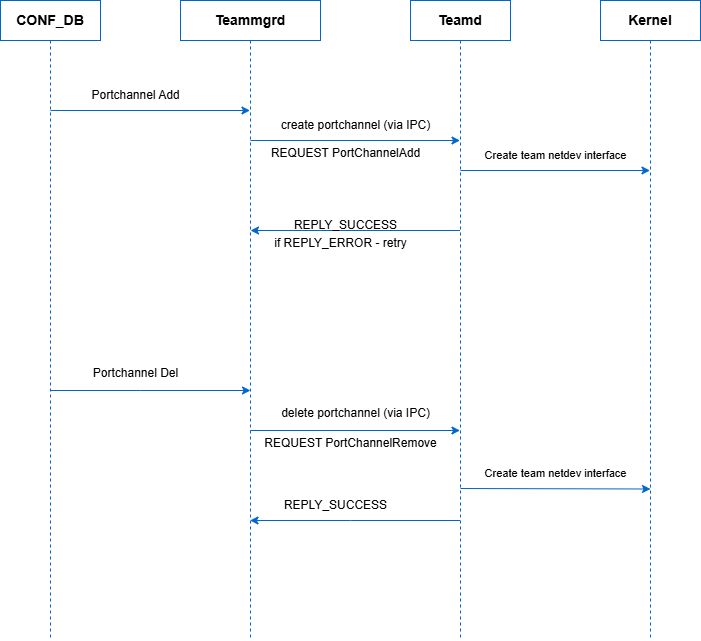
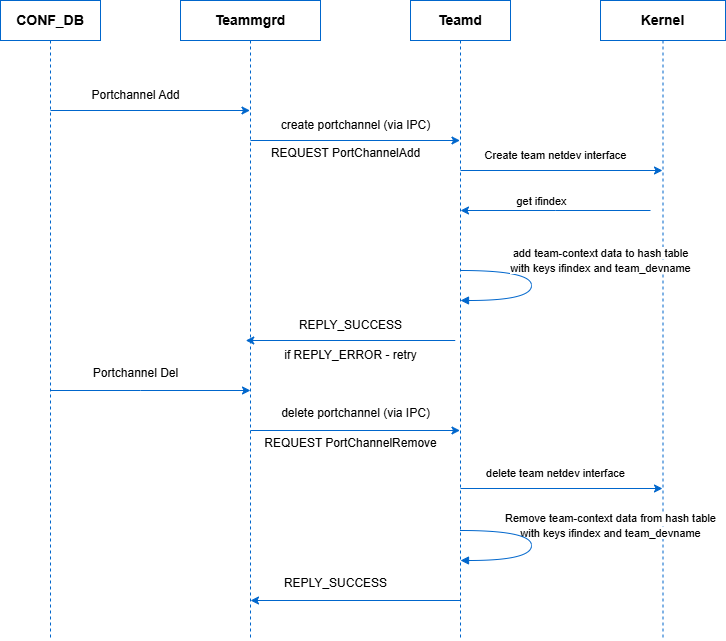
Unified Teamd HLD for SONiC

diff --git a/doc/UnifiedTeamD/Unified_TeamD_HLD.md b/doc/UnifiedTeamD/Unified_TeamD_HLD.md
@@ -5,16 +5,16 @@
 # Revision
 | Rev |     Date    |         Author               |          Change Description      |
 |:---:|:-----------:|:----------------------------:|:--------------------------------:|
-| 1.0 | 09/05/2025  | Praveen HM, Ashutosh Agrawal | Initial Version                  |
-
+| 1.0 | 21/07/2025  | Praveen HM, Venkata Gouri Rajesh Etla, Ashutosh Agrawal                  | Initial Version                  |
+                                                            
 ## Table of Contents
 
 - [Unified Teamd Process for PortChannels](#unified-teamd-process-for-portchannels)
 - [High Level Design Document](#high-level-design-document)
 - [Revision](#revision)
-  - [Table of Contents](#table-of-contents)
-  - [Scope](#scope)
-  - [Definitions](#definitions)
+- [Table of Contents](#table-of-contents)
+- [Scope](#scope)
+- [Definitions](#definitions)
 - [Overview](#overview)
   - [Teamd](#teamd)
   - [Current Design](#current-design)
@@ -22,11 +22,15 @@
   - [Requirements](#requirements)
 - [Detailed Design](#detailed-design)
   - [Architecture Overview](#architecture-overview)
+  - [Warmboot](#warmboot)
   - [TeamD](#teamd-1)
   - [Libteam](#libteam)
+  - [FD Optimization and Wheel Timers](#fd-optimization-and-wheel-timers)
+    - [Overview: What Is a Wheel Timer?](#overview-what-is-a-wheel-timer)
+    - [Key Components of a Wheel Timer](#key-components-of-a-wheel-timer)
   - [Teamd Config Manager](#teamd-config-manager)
   - [Teamsyncd](#teamsyncd)
-  - [tlm\_teamd](#tlm_teamd)
+  - [tlm_teamd](#tlm_teamd)
   - [Interaction Flow](#interaction-flow)
     - [Portchannel Add/Del Configuration Flow](#portchannel-adddel-configuration-flow)
     - [Portchannel Member Add/Del Configuration Flow](#portchannel-member-adddel-configuration-flow)
@@ -37,6 +41,7 @@
       - [Config DB](#config-db)
       - [CLI](#cli)
       - [YANG](#yang)
+- [Performance numbers](#performance-numbers)
 - [Testing](#testing)
   - [Test Cases](#test-cases)
 - [References](#references)
@@ -50,7 +55,6 @@ This document describes the high-level design for optimizing the teamd implement
 - **TEAMD**: Team Daemon, a user-space application part of the Libteam project that manages network interface bonding.
 - **LAG**: Link Aggregation Group, a method of combining multiple physical network connections into a single logical link.
 - **LACP**: Link Aggregation Control Protocol, a protocol that controls the bundling of several physical ports to form a single logical channel.
-- **AVL**: Adelson-Velsky and Landis, a self-balancing binary search tree used for efficient data management.
 - **IPC**: Inter-Process Communication, methods for the exchange of data between multiple threads in one or more processes.
 
 # Overview
@@ -124,26 +128,30 @@ The new architecture implements a single teamd process that manages multiple por
 The redesigned architecture focuses on improving resource efficiency and scalability through the following mechanisms:
 
 - A single teamd process will manage all PortChannels, replacing the need for multiple per-instance processes.
-- An AVL tree data structure will be used internally to enable fast and efficient lookups, insertions, and deletions.
+- A Hash table will be used internally to enable fast and efficient lookups, insertions, and deletions.
 - Shared resources such as netlink sockets will be reused across all managed PortChannels to reduce system overhead.
 - Configuration updates from teammgrd will be handled via IPC messages.
-- A new CLI command will be added to notify teamd to operate in multi-process (legacy) mode 
+- A new CLI command will be added to notify teamd to operate in multi-process (legacy) mode
+- The file descriptor usage will be optimized by implementing wheel timers and using global pipe instead of per portchannel pipe.
+
+## Warmboot
+The existing warmboot behavior continues to be supported, and no explicit changes are required to enable warmboot with this enhancement.
 
 ## TeamD
-teamd shall support both unified and multi-process (legacy) operation modes. Upon startup, teammgrd determines the current mode of operation. If the mode is unified, teammgrd launches a single teamd instance using the following command:
+teamd shall support both unified and multi-process (legacy) operation modes. Upon startup, teammgrd determines the current mode of operation. If the mode is not set, teammgrd launches a single teamd instance using the following command:
 ```
 /usr/bin/teamd -t teamd-unified -L /var/warmboot/teamd/ -g -d
 ```
 In multi-process mode (the legacy behavior), teammgrd will spawn a separate teamd process for each PortChannel as they are created.
 
-Refer section <PHM> for more details on how to set the mode.
+Refer section [teamd operating mode](#teamd-operating-mode) for more details on how to set the mode.
 
 During initialization, 
 - The -t option and the argument to it is used to differentiate between single-process and multi-process modes of operation.
 - When -t option with value "teamd-unified" is specified, the process runs in single-process mode, managing multiple PortChannels within a single teamd instance.
 - When -t option with value "portdevname" is provided (e.g., -t PortChannel01), it runs in multi-process mode, where each PortChannel is managed by its own separate teamd process.
 
-- A new global_context structure will be defined to store global configuration and state relevant to the entire teamd process. It maintains an AVL tree data structure for efficiently managing and accessing multiple team devices (portchannels).
+- A new global_context structure will be defined to store global configuration and state relevant to the entire teamd process. It maintains a Hash table for efficiently managing and accessing multiple team devices (portchannels).
 - Common netlink sockets are created to handle all interface events from kernel.
 - A single event loop will be defined to handle kernel events for all portchannels.
 - A new unix socket is created for IPC communication with teammgrd and tlm_teamd. 
@@ -154,7 +162,7 @@ Once initialized, teamd can dynamically manage port channels based on configurat
 
 When the system starts, teamd operates in the new design where it runs in single-process mode and manages all PortChannels through IPC. To downgrade to the legacy design, the mode must be explicitly set to "multi-process" and the Docker container must be restarted. Similarly, to upgrade back to the new design, the "multi-process" mode configuration should be removed, followed by a Docker restart. Therefore, the mode setting must be correctly configured before restarting the container to ensure the system comes up in the desired operation mode.
 
-Refer section <PHM> for more details on how to set the mode.
+Refer section [teamd operating mode](#teamd-operating-mode) for more details on how to set the mode.
 
 ## Libteam
 
@@ -168,6 +176,33 @@ A new structure "team_netlink" will be defined in the libteam layer to hold all 
 
 A shared set of netlink sockets will be created once and used for communication with the kernel. These sockets will handle team-related control messages and events for all team (portchannel) devices, by maintaining a map between ifindex to corresponding portchannels.
 
+**Netlink buffer size**
+
+As multiple LAGs are handled by single teamd daemon in case of unified-mode, the netlink buffer size is increased from current 960kB to 3MB to handle the increased number of netlink messages.
+
+## FD Optimization and Wheel Timers 
+
+Currently each LAG uses 1 timerfd and 2 fds for pipe, each member port uses 3 timer fds and 1 fd for socket used for packet processing. The pipe is used for internal communication while doing LACP port aggregator selection and for active port selection with active-backup runner. With single unified teamd process, as there will be multiple LAGs in single teamd process this can lead to hitting the FD limit of 1024 for the process when scaled. To address this, following changes are made:
+
+- Instead of one pipe for each LAG, a single pipe will be used in global context and used across all LAGs 
+- 2 timer fds will be created, one for timers with granularity of seconds and another for 100ms granularity. These timers will then be used to add support for existing timers in teamd using hashed wheel timer. 
+
+### Overview: What Is a Wheel Timer? 
+
+A wheel timer organizes timers in a circular buffer structure where: 
+
+- Each slot in the "wheel" represents a time interval (e.g., 100ms, 1sec). 
+- Timers are inserted into future slots based on their timeout. 
+- The wheel rotates like a clock — advancing by one slot at fixed time intervals. 
+- When the wheel lands on a slot, it fires or checks all timers in that slot. 
+
+### Key Components of a Wheel Timer
+- Tick interval – Smallest unit of time. 100ms and 1sec interval timers will be used.  
+- Number of slots – Size of the wheel, for 100ms timer 20 slots will be used and for 1sec timer 120 slots will be used. 
+- Current slot index – Rotates at each tick (like a second hand). 
+- Timer entries – Each slot holds a list of timer callbacks to fire. The existing timer callbacks will be used to handle the timer expiry. 
+
+<div align="center"> <img src=images/wheel_timers.jpg width=600 /> </div>
 
 ### Teamd Config Manager
 
@@ -192,7 +227,7 @@ Alternatively, now tlm_teamd communicates with teamd over a Unix socket to retri
 ### Portchannel Add/Del Configuration Flow
 
 When a new PortChannel is configured in the system, an entry is created in the CONFIG_DB, which teammgrd monitors. teammgrd sends PortChannelAdd IPC meesage to the teamd process.
-Upon receiving this request, teamd communicates with the kernel to create the appropriate team network device interface. This involves several steps: first, teamd requests the kernel to create the team netdev interface, then it retrieves the ifindex from the kernel. Once the interface is created, teamd adds team-context data to the AVL tree with the retrieved ifindex and team device name as keys. After successful completion of these operations, teamd sends a REPLY_SUCCESS message back to teammgrd. If an error occurs during this process, the system is designed to retry the operation.
+Upon receiving this request, teamd communicates with the kernel to create the appropriate team network device interface. This involves several steps: first, teamd requests the kernel to create the team netdev interface, then it retrieves the ifindex from the kernel. Once the interface is created, teamd adds team-context data to the hash table with the retrieved ifindex and team device name as keys. After successful completion of these operations, teamd sends a REPLY_SUCCESS message back to teammgrd. If an error occurs during this process, the system is designed to retry the operation.
 
 **IPC message for Portchannel addition**
 
@@ -203,8 +238,10 @@ Upon receiving this request, teamd communicates with the kernel to create the ap
 Sample config_json:
 {"device":"PortChannel3","hwaddr":"22:26:87:a5:19:db","runner":{"active":true,"name":"lacp","min_ports":1}}
 
+The existing config portchannel add CLI command, along with its options (min-links, fallback, fast-rate), is also supported through this IPC mechanism.
+
 ```
-Similarly, when a PortChannel is deleted from CONFIG_DB, teammgrd sends a PortChannelRemove IPC to teamd. In response, teamd requests the kernel to delete the team netdev interface. Once the interface is removed, teamd removes the PortChannel context from its internal data structures and deletes the team device name and ifindex from the AVL tree. Upon successful completion, teamd sends a REPLY_SUCCESS message back to teammgrd, confirming that the deletion has been properly executed.
+Similarly, when a PortChannel is deleted from CONFIG_DB, teammgrd sends a PortChannelRemove IPC to teamd. In response, teamd requests the kernel to delete the team netdev interface. Once the interface is removed, teamd removes the PortChannel context from its internal data structures and deletes the team device name and ifindex from the hash table. Upon successful completion, teamd sends a REPLY_SUCCESS message back to teammgrd, confirming that the deletion has been properly executed.
 
 **IPC message for Portchannel Deletion**
 
@@ -219,7 +256,7 @@ msg_type - PortChannelRemove
 
 
 ### Portchannel Member Add/Del Configuration Flow
-When a member port is added to a PortChannel in CONFIG_DB, Teammgrd sends two IPC messages, PortConfigUpdate and PortAdd to the teamd process. Upon receiving these requests, teamd first looks up the teamd_context data structure from the AVL tree using the team_devname as a key. After locating the appropriate context, teamd communicates with the kernel to configure the specified port as a team member. Once the kernel successfully completes this configuration, teamd sends a REPLY_SUCCESS message back to teammgrd. If an error occurs during this process, the system is designed to retry the operation.
+When a member port is added to a PortChannel in CONFIG_DB, Teammgrd sends two IPC messages, PortConfigUpdate and PortAdd to the teamd process. Upon receiving these requests, teamd first looks up the teamd_context data structure from the hash table using the team_devname as a key. After locating the appropriate context, teamd communicates with the kernel to configure the specified port as a team member. Once the kernel successfully completes this configuration, teamd sends a REPLY_SUCCESS message back to teammgrd. If an error occurs during this process, the system is designed to retry the operation.
 
 
 **IPC message for Portchannel member addition**
@@ -235,7 +272,7 @@ Sample config_json:
 {"lacp_key":12,"link_watch": {"name": "ethtool"} }
 ```
 
-Similarly, when a member port is removed from a PortChannel in CONFIG_DB, teammgrd sends PortRemove IPC to teamd. Upon receiving this request, teamd again looks up the teamd_context from the AVL tree using the team_devname. After finding the context, teamd interacts with the kernel to remove the specified member from the PortChannel. When the kernel successfully completes the removal operation, teamd sends a REPLY_SUCCESS message back to teammgrd, confirming that the deletion has been properly executed.
+Similarly, when a member port is removed from a PortChannel in CONFIG_DB, teammgrd sends PortRemove IPC to teamd. Upon receiving this request, teamd again looks up the teamd_context from the hash table using the team_devname. After finding the context, teamd interacts with the kernel to remove the specified member from the PortChannel. When the kernel successfully completes the removal operation, teamd sends a REPLY_SUCCESS message back to teammgrd, confirming that the deletion has been properly executed.
 
 **IPC message for Portchannel Member Deletion**
 
@@ -269,7 +306,7 @@ REPLY_SUCCESS <response>
 <div align="center"> <img src=images/link_state.png width=600 /> </div>
 
 ### Link Event Flow
-When a link state change occurs, the kernel sends a netlink notification, which is received by the registered libteam callback. Libteam parses the netlink message, extracts the index of the affected link, and invokes a lookup function registered by teamd. Teamd then retrieves the corresponding team_dev structure from its internal AVL tree and returns it to libteam. Using this structure, libteam processes the state change and informs teamd through its change handlers. Teamd then triggers the appropriate LACP logic to handle the link state transition, and any updates to link aggregation are communicated back to the kernel via libteam.
+When a link state change occurs, the kernel sends a netlink notification, which is received by the registered libteam callback. Libteam parses the netlink message, extracts the index of the affected link, and invokes a lookup function registered by teamd. Teamd then retrieves the corresponding team_dev structure from its internal hash table and returns it to libteam. Using this structure, libteam processes the state change and informs teamd through its change handlers. Teamd then triggers the appropriate LACP logic to handle the link state transition, and any updates to link aggregation are communicated back to the kernel via libteam.
 
 <div align="center"> <img src=images/link_event_flow.png width=600 /> </div>
 
@@ -349,6 +386,19 @@ module sonic-teamd {
     /* end of sonic-teamd */
 }
 ```
+# Performance numbers
+The docker stats command was used to capture CPU and memory usage. The results below show measurements with 512 PortChannels in both legacy mode and unified mode. Unified mode shows a significant reduction in resource usage — CPU usage drops from ~33% to ~20%, and memory usage decreases from ~816 MiB to ~260 MiB.
+
+```
+With legacy mode:
+CONTAINER ID   NAME      CPU %     MEM USAGE / LIMIT   MEM %     NET I/O   BLOCK I/O   PIDS
+401d3f751f94   teamd     33.38%    816MiB / 14.8GiB    5.39%     0B / 0B   0B / 0B     526
+
+With Unified mode:
+CONTAINER ID   NAME      CPU %     MEM USAGE / LIMIT    MEM %     NET I/O   BLOCK I/O   PIDS
+a47e496e96f2   teamd     20.08%    259.7MiB / 14.8GiB   1.71%     0B / 0B   0B / 0B     15
+```
+
 
 # Testing
 
@@ -357,7 +407,7 @@ module sonic-teamd {
 The new implementation will be validated using existing test cases from the sonic-mgmt test suite.
 These tests verify core LAG (PortChannel) functionality such as creation, member addition/removal, LACP negotiation, traffic forwarding, and state validation.
 
-While the fundamental logic of LAG handling remains the same, necessary modifications will be made to the test cases to account for the new multi-device mode configuration. For instance, the setup steps may need to be updated to launch teamd with the -t all option when testing multi-device scenarios.
+While the fundamental logic of LAG handling remains the same, necessary modifications will be made to the test cases to account for the new unified mode configuration. 
 
 
 | Test Case | Description |
